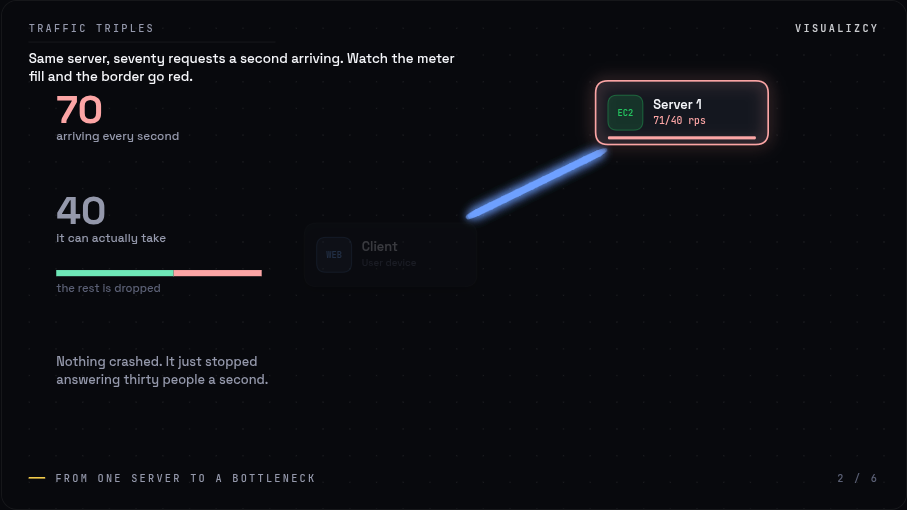
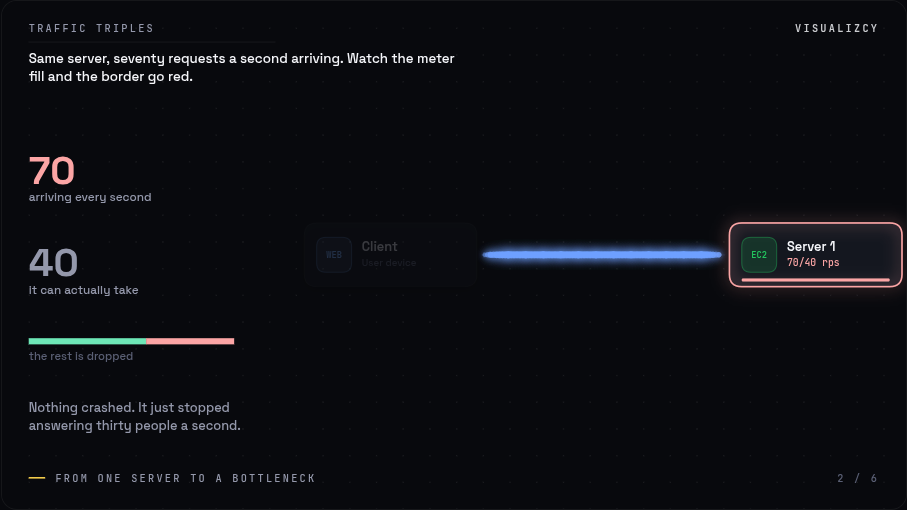
Animate exits, compute layout instead of choosing it
Two things were static that should not have been, and both showed up as
"the layout is a mess, the animation is not smooth".

Nodes only animated in. appearOf returned 0 the instant a step hid one, so a
card vanished on the frame the step changed. Every step boundary was a cut, and
a sequence of cuts is what made stepping feel abrupt. Exits now run at 280ms
against a 460ms entrance, because leaving should not linger.

Node positions were authored for a scene's full topology while visibility is
per step, so a step showing two of six nodes used coordinates designed for six.
autoLayout recomputes from the live edges each step: BFS depth becomes position
along the flow, siblings spread across it. Two nodes become a centred pair.

Annotation positions had the same problem in miniature: hand-picked y values
with arbitrary gaps. Marks that omit `at` now stack on spacing derived from
their own measured heights.

The validator caught the schema drift this introduced, which is what it is for.

diff --git a/scenes/index.js b/scenes/index.js
@@ -88,6 +88,7 @@ export const SCENES = [request, overload, loadbalancer, replicas, queue]
 
 export const scaleStory = {
   id: 'scale_story',
+  autoLayout: true,   // positions come from the live edges of each step
   title: 'From one server to a bottleneck',
   caption: 'A six-step story. Use ‹ › to step through it by hand.',
   watermark: 'Visualizcy',
@@ -127,18 +128,19 @@ export const scaleStory = {
       traffic: { client: 70 },
       focus: ['s1'],
       annotations: [
-        { type: 'stat', at: [0.06, 0.24], value: 70, tone: 'bad', size: 38,
+        { type: 'stat', value: 70, tone: 'bad', size: 38,
           label: 'arriving every second', key: 'in' },
-        { type: 'stat', at: [0.06, 0.44], value: 40, tone: 'dim', size: 38,
+        { type: 'stat', value: 40, tone: 'dim', size: 38,
           label: 'it can actually take', key: 'cap' },
-        { type: 'bar', at: [0.06, 0.53], width: 200, label: 'the rest is dropped',
+        { type: 'bar', width: 200, label: 'the rest is dropped',
           parts: [{ value: 40, tone: 'good' }, { value: 30, tone: 'bad' }] },
-        { type: 'note', at: [0.06, 0.72], width: 210, tone: 'dim',
+        { type: 'note', width: 210, tone: 'dim',
           text: 'Nothing crashed. It just stopped answering thirty people a second.' },
       ],
     },
     {
       label: 'Spread the load',
+      gutter: 0.3,
       note: 'A load balancer and two more servers. The same seventy, now round-robined into three shares of twenty-three.',
       duration: 4600,
       show: ['client', 'lb', 's1', 's2', 's3'],
@@ -148,7 +150,7 @@ export const scaleStory = {
       annotations: [
         { type: 'bracket', nodes: ['s1', 's2', 's3'], tone: 'good',
           text: 'three shares of twenty-three' },
-        { type: 'note', at: [0.06, 0.82], width: 240, tone: 'dim',
+        { type: 'note', width: 240, tone: 'dim',
           text: 'Same seventy. Nobody is near their limit now.' },
       ],
     },
@@ -164,9 +166,9 @@ export const scaleStory = {
       annotations: [
         { type: 'callout', at: 's2', side: 'right', tone: 'bad', dy: 0,
           text: 'Gone. Its share is redistributed on the next request.' },
-        { type: 'stat', at: [0.06, 0.3], value: 35, tone: 'good', size: 34,
+        { type: 'stat', value: 35, tone: 'good', size: 34,
           label: 'each of the survivors', key: 'each' },
-        { type: 'note', at: [0.06, 0.46], width: 200, tone: 'dim',
+        { type: 'note', width: 200, tone: 'dim',
           text: 'Still under forty. Nobody outside notices anything happened.' },
       ],
     },
@@ -181,9 +183,9 @@ export const scaleStory = {
       dead: ['s2', 's3'],
       focus: ['client', 'lb', 's1'],
       annotations: [
-        { type: 'stat', at: [0.06, 0.3], value: 70, tone: 'bad', size: 38,
+        { type: 'stat', value: 70, tone: 'bad', size: 38,
           label: 'onto one server again', key: 'all' },
-        { type: 'note', at: [0.06, 0.46], width: 210, tone: 'dim',
+        { type: 'note', width: 210, tone: 'dim',
           text: 'This is step two wearing a load balancer. Spreading load buys you headroom, not immunity.' },
       ],
     },
@@ -200,7 +202,7 @@ export const scaleStory = {
       annotations: [
         { type: 'callout', at: 'db', side: 'left', tone: 'bad', width: 180,
           text: 'Thirty of capacity. Seventy arriving. Every server you added ends here.' },
-        { type: 'note', at: [0.06, 0.8], width: 230, tone: 'warn',
+        { type: 'note', width: 230, tone: 'warn',
           text: 'You can add servers all day. The bottleneck just moved.' },
       ],
     },
@@ -247,7 +249,7 @@ export const lru = scene({
       pointers: [{ at: 0, text: 'most recent' }, { at: 4, text: 'next to evict' }],
       gutter: 0.28,
       annotations: [
-        { type: 'note', at: [0.05, 0.42], width: 200, tone: 'dim',
+        { type: 'note', width: 200, tone: 'dim',
           text: 'Nothing has been evicted yet. A is simply the one with the most to lose.' },
       ],
     },
@@ -260,7 +262,7 @@ export const lru = scene({
       pointers: [{ at: 0, text: 'moved here' }, { at: 4, text: 'next to evict' }],
       gutter: 0.28,
       annotations: [
-        { type: 'note', at: [0.05, 0.42], width: 200, tone: 'dim',
+        { type: 'note', width: 200, tone: 'dim',
           text: 'This is the whole algorithm. Use something, and it stops being the candidate.' },
       ],
     },
@@ -273,9 +275,9 @@ export const lru = scene({
       pointers: [{ at: 0, text: 'new' }, { at: 4, text: 'next to evict' }],
       gutter: 0.28,
       annotations: [
-        { type: 'stat', at: [0.05, 0.36], value: 1, tone: 'bad', size: 34,
+        { type: 'stat', value: 1, tone: 'bad', size: 34,
           label: 'evicted: A', key: 'ev' },
-        { type: 'note', at: [0.05, 0.52], width: 200, tone: 'warn',
+        { type: 'note', width: 200, tone: 'warn',
           text: 'A was not the oldest thing you stored. It was the oldest thing you used.' },
       ],
     },

diff --git a/src/sim.js b/src/sim.js
@@ -17,6 +17,7 @@ const WINDOW = 1000        // ms; equal to 1s so rxLog.length reads as rps
 const DEFAULT_RPS = 6
 const SPEED = 0.55         // fractions of the canvas travelled per second
 const ENTER_MS = 460       // card entrance duration
+const EXIT_MS = 280        // and its way out; shorter, because leaving should not linger
 const ENTER_STEP = 105     // stagger between successive hops
 const RATE_LAMBDA = 5.5    // how hard the displayed rps chases the measured one
 
@@ -56,6 +57,7 @@ export function createSim(sceneDef, opts = {}) {
         rrIdx: 0,
         // presentation only
         appearAt: 0,      // animTime at which this card starts entering
+        exitAt: null,     // and at which it starts leaving, if it does
         pulse: 0,         // 1 on arrival, decays
         showRate: 0,      // damped rps, what the meter and label actually show
         hot: 0,           // damped 0..1 overload blend, so the red fades in
@@ -94,10 +96,63 @@ export function createSim(sceneDef, opts = {}) {
     }
   }
 
-  // 0..1 entrance progress for a card, raw; the renderer applies the curve.
+  // 0..1 visibility for a card, raw; the renderer applies the curve.
+  // Hiding is animated too: a node that vanishes on the frame a step changes
+  // reads as a cut, and a sequence of cuts is why stepping felt abrupt.
   function appearOf(n) {
-    if (n.hidden) return 0
-    return clamp01((state.animTime - n.appearAt) / ENTER_MS)
+    if (!n.hidden) return clamp01((state.animTime - n.appearAt) / ENTER_MS)
+    if (n.exitAt == null) return 0        // never shown in the first place
+    return 1 - clamp01((state.animTime - n.exitAt) / EXIT_MS)
+  }
+
+  // Lay the visible nodes out from the live edges instead of trusting positions
+  // authored for the full topology. A step that shows two of six nodes was
+  // otherwise using coordinates designed for six, which is why composition fell
+  // apart mid-story: the positions were static while visibility was not.
+  function autoLayout() {
+    const live = state.nodes.filter(n => !n.hidden)
+    if (!live.length) return
+    const ids = new Set(live.map(n => n.id))
+    const edges = state.edges.filter(e => !e.off && ids.has(e.from) && ids.has(e.to))
+
+    const depth = new Map()
+    const queue = []
+    for (const n of live) {
+      const hasIncoming = edges.some(e => e.to === n.id)
+      if (!hasIncoming) { depth.set(n.id, 0); queue.push(n.id) }
+    }
+    if (!queue.length) { depth.set(live[0].id, 0); queue.push(live[0].id) }
+    while (queue.length) {
+      const id = queue.shift()
+      for (const e of edges) {
+        if (e.from !== id) continue
+        const d = depth.get(id) + 1
+        if (depth.has(e.to) && depth.get(e.to) >= d) continue
+        depth.set(e.to, d)
+        queue.push(e.to)
+      }
+    }
+
+    const layers = new Map()
+    for (const n of live) {
+      const d = depth.get(n.id) ?? 0
+      if (!layers.has(d)) layers.set(d, [])
+      layers.get(d).push(n)
+    }
+    const maxDepth = Math.max(...layers.keys())
+
+    // Along the flow: left to right, or top to bottom in portrait.
+    const along = (d) => maxDepth === 0 ? 0.5 : 0.12 + (d / maxDepth) * 0.76
+    const across = (i, n) => n === 1 ? 0.5 : 0.16 + (i / (n - 1)) * 0.68
+
+    for (const [d, group] of layers) {
+      group.sort((a, b) => a.spec.y - b.spec.y || a.id.localeCompare(b.id))
+      group.forEach((n, i) => {
+        const a = along(d), c = across(i, group.length)
+        if (state.portrait) { n.x = c; n.y = a }
+        else { n.x = a; n.y = c }
+      })
+    }
   }
 
   // Reveal a node that was hidden, animating it in from now.
@@ -107,7 +162,8 @@ export function createSim(sceneDef, opts = {}) {
     const wantHidden = !on
     if (n.hidden === wantHidden) return
     n.hidden = wantHidden
-    if (on) n.appearAt = state.animTime
+    if (on) { n.appearAt = state.animTime; n.exitAt = null }
+    else n.exitAt = state.animTime
   }
 
   function relayout(portrait) {
@@ -250,6 +306,7 @@ export function createSim(sceneDef, opts = {}) {
       n.overloaded = false
       n.dead = false
       n.hidden = false
+      n.exitAt = null
       n.spawnAccum = 0
       n.rrIdx = 0
       n.pulse = 0
@@ -281,6 +338,6 @@ export function createSim(sceneDef, opts = {}) {
   load()
   return {
     state, load, relayout, step, advanceAnim, reset, kill, byId, rateOf,
-    appearOf, reveal, stageEntrance,
+    appearOf, reveal, stageEntrance, autoLayout,
   }
 }

diff --git a/src/annotate.js b/src/annotate.js
@@ -19,8 +19,12 @@ const toneOf = t => TONES[t] || theme.text
 
 export function drawAnnotations(s, list, enter, counters) {
   if (!list || !list.length) return
+  // Marks that omit `at` are stacked down the gutter on a shared rhythm. Hand
+  // picking a y for each one is how the left column ended up with arbitrary
+  // gaps: the spacing has to come from the marks' own heights, not from taste.
+  const stacked = stackColumn(s, list)
   for (let i = 0; i < list.length; i++) {
-    const a = list[i]
+    const a = stacked.get(list[i]) || list[i]
     // Marks stagger in after the step lands, so the eye gets the diagram first
     // and the commentary second.
     const t = easeOutCubic(clamp01((enter - i * 0.12) / 0.55))
@@ -33,6 +37,52 @@ export function drawAnnotations(s, list, enter, counters) {
     s.ctx.restore()
   }
 }
+
+// Vertical extent a mark occupies, and where its own anchor sits inside that.
+// stat and note draw from a text baseline; bar draws from its top edge.
+function metrics(s, a) {
+  const S = s.S
+  if (a.type === 'stat') {
+    const size = (a.size || 34) * S
+    return { height: size + (a.label ? 22 * S : 0), offset: size * 0.78 }
+  }
+  if (a.type === 'bar') {
+    return { height: (a.height || 6) * S + (a.label ? 24 * S : 0), offset: 0 }
+  }
+  if (a.type === 'note') {
+    s.ctx.font = `500 ${(a.size || 12.5) * S}px ${theme.fontDisplay}`
+    const lines = wrap(s.ctx, a.text, (a.width || 260) * S).length
+    return { height: lines * 17 * S, offset: 12 * S }
+  }
+  return { height: 22 * S, offset: 12 * S }
+}
+
+// Lay out every mark that did not ask for a position.
+function stackColumn(s, list) {
+  const auto = list.filter(a => a.at == null && a.type !== 'bracket' && a.type !== 'callout')
+  const out = new Map()
+  if (!auto.length) return out
+
+  const S = s.S
+  const x = 26 * S
+  const top = s.H * 0.30
+  const available = s.H * 0.58
+  const m = auto.map(a => metrics(s, a))
+  const content = m.reduce((n, q) => n + q.height, 0)
+  const gap = auto.length > 1
+    ? clamp01Range((available - content) / (auto.length - 1), 12 * S, 30 * S)
+    : 0
+
+  let y = top
+  auto.forEach((a, i) => {
+    // positions are fractions; the column is measured in pixels, so convert
+    out.set(a, { ...a, at: [x / s.W, (y + m[i].offset) / s.H] })
+    y += m[i].height + gap
+  })
+  return out
+}
+
+const clamp01Range = (v, lo, hi) => Math.max(lo, Math.min(hi, v))
 
 // Resolve an anchor: a node id, or [x, y] as fractions of the canvas.
 function anchor(s, at) {

diff --git a/src/validate.js b/src/validate.js
@@ -15,6 +15,7 @@ import { markTypes } from './annotate.js'
 const TONES = ['good', 'bad', 'warn', 'accent', 'dim', 'plain']
 const KINDS = ['graph', 'slots']
 const ROLES = ['source', 'router', 'sink']
+const STACKABLE = ['stat', 'bar', 'note']   // may omit `at` and be auto-stacked
 
 export function validateScene(def) {
   const errors = []
@@ -146,7 +147,13 @@ function validateSteps(def, kind, ids, err, warn) {
           if (!ids.has(id)) err(`${ap}.nodes`, `references unknown node "${id}"`)
         }
       } else if (a.at == null) {
-        err(`${ap}.at`, 'mark needs `at`: a node id, or [x, y] as fractions')
+        // stat, bar and note may omit `at`: they are stacked down the gutter on
+        // a shared rhythm instead of each picking its own y.
+        if (!STACKABLE.includes(a.type)) {
+          err(`${ap}.at`, `${a.type} needs \`at\`: a node id, or [x, y] as fractions`)
+        } else if (!s.gutter) {
+          warn(`${ap}.at`, `${a.type} will be stacked in the gutter, but this step sets no gutter`)
+        }
       } else if (Array.isArray(a.at)) {
         if (a.at.length !== 2) err(`${ap}.at`, 'positional `at` must be [x, y]')
       } else if (!ids.has(a.at)) {

diff --git a/src/timeline.js b/src/timeline.js
@@ -52,6 +52,7 @@ export function createTimeline(sim, def) {
       for (const e of sim.state.edges) e.off = !on.has(`${e.from}>${e.to}`)
     }
 
+    if (def.autoLayout) sim.autoLayout()
     if (s.clearPackets) sim.state.packets = []
     state.appliedAt = sim.state.animTime
   }

diff --git a/src/engine.js b/src/engine.js
@@ -82,6 +82,7 @@ export function createEngine(canvas, sceneDef, opts = {}) {
   function resize() {
     renderer.resize()
     sim.relayout(isPortrait())
+    if (sim.state.scene.autoLayout) sim.autoLayout()
     renderer.fit(sim.state.nodes)
   }
 

diff --git a/README.md b/README.md
@@ -68,6 +68,10 @@ finishes its entrance, and a meter keeps settling after you hit pause.
 - **Entrances run in flow order.** A BFS from the sources assigns each node a
   depth, and depth becomes the stagger delay. Reading the diagram and watching it
   build are the same motion. Cards rise, overshoot slightly (`easeOutBack`), settle.
+- **Nodes animate out, not only in.** Hiding used to be instant, so every step
+  change was a cut and a sequence of cuts is what made stepping feel abrupt.
+  Exit is shorter than entrance (280ms vs 460ms) because leaving should not
+  linger.
 - **Wires draw themselves only as far as both endpoints have arrived**, so the
   topology assembles rather than snapping into place.
 - **`damp()` is the workhorse.** Frame-rate independent exponential smoothing,
@@ -118,6 +122,19 @@ See `scaleStory` in `scenes/index.js` for a six-step example.
 - **⧉** copies the current positions as scene data, ready to paste back into
   `scenes/index.js`. Drag to compose, copy, commit.
 
+## Layout
+
+Two things were static that should not have been.
+
+**Node positions.** A scene authors coordinates for its full topology, but a step
+shows a subset — so a step displaying two of six nodes was using positions
+designed for six, and the composition fell apart mid-story. `autoLayout: true`
+recomputes positions per step from the *live* edges: BFS assigns each visible
+node a depth, depth becomes the position along the flow, and siblings spread
+across it. Two nodes become a centred pair; six become four layers.
+
+**Annotation rhythm.** See above: marks without `at` stack on measured heights.
+
 ## Fitting any aspect
 
 Scale is driven by width, not `min(W, H)` — cards are wide, so horizontal room is
@@ -162,6 +179,9 @@ they follow drags and relayouts) or to a fractional position:
 
 Three things make this layer work rather than merely exist:
 
+- **Marks that omit `at` are stacked down the gutter** on spacing derived from
+  their own measured heights. Hand-picking a y per mark is how the column ended
+  up with arbitrary gaps; rhythm has to be computed, not chosen.
 - **`gutter` reserves the left edge** and the diagram maps its fractional x into
   what is left. Without it, commentary lands on cards. This is the layout
   language the reference work uses: system on one side, argument on the other.
